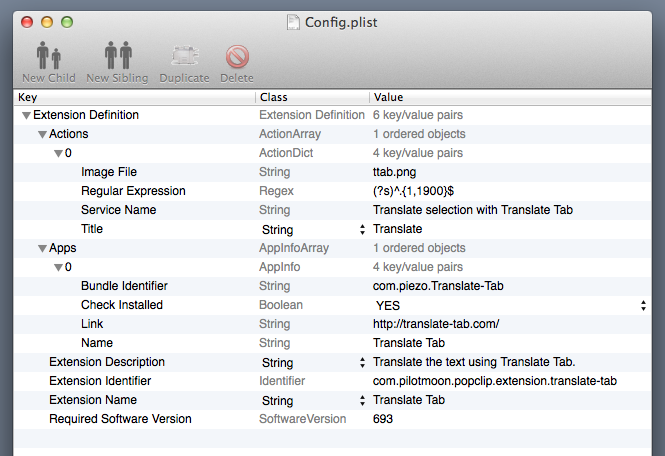
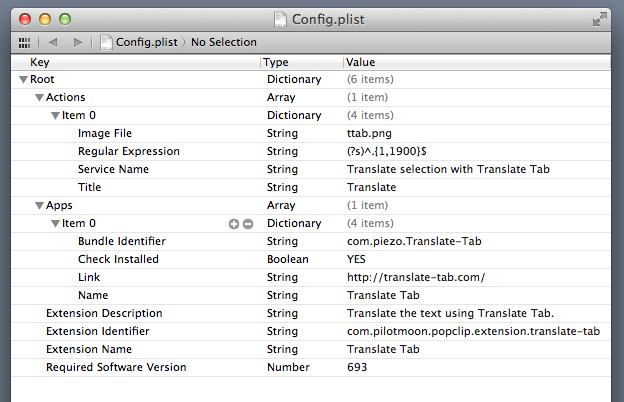
change plist example image

Changed region(s): [[0.0, 0.0, 1.0, 1.0], [0.9439, 0.6567, 0.9744, 0.6866]]

diff --git a/README.md b/README.md
@@ -114,7 +114,7 @@ Here is an example package structure, using the 'Say' extension:
 
 ### The Config.plist
 Every extension must contain a `Config.plist` file. This should be an XML-format plist. The plist contains information about the extension, and also defines one or more *actions*. You can generate a blank plist with Xcode or use this example as a basis: [ExampleConfig.plist](https://raw.github.com/pilotmoon/PopClip-Extensions/master/docs/ExampleConfig.plist). Alternatively, use a dedicated plist editor such as the excellent [PlistEdit Pro](http://www.fatcatsoftware.com/plisteditpro/
-). Here is an example of the plist for 'Translate Tab', as viewed in PlistEdit Pro:
+). Here is an example of the plist for 'Translate Tab', as viewed in Xcode:
 
 ![Example plist, for 'Translate Tab'.](https://raw.github.com/pilotmoon/PopClip-Extensions/master/docs/ttplist.png)
 
